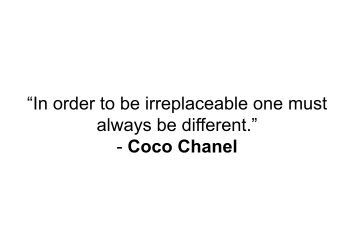
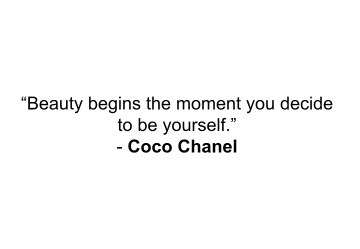
Descr: Updated website.

Changed region(s): [[0.0611, 0.3655, 0.9472, 0.5622]]

diff --git a/index.html b/index.html
@@ -248,7 +248,7 @@
 					</a>
 					<div class="caption">
 						<h3>Coco Chanel</h3>
-						<p>"In order to be irreplaceable one must always be different."</p>
+						<p>"Beauty begins the moment you decide to be yourself."</p>
 					</div>
 				</article>
 
@@ -258,8 +258,8 @@
 					</a>
 					<div class="caption">
 						<h3>Rafael Nadal</h3>
-						<p>"Enduring means accepting. Accepting things as they are and not as you wish them to be, and
-							then looking ahead, not behind."</p>
+						<p>"Enduring means accepting. Accepting things as they are and not as you wish them to be. And
+							then looking ahead. And not behind."</p>
 					</div>
 				</article>
 
